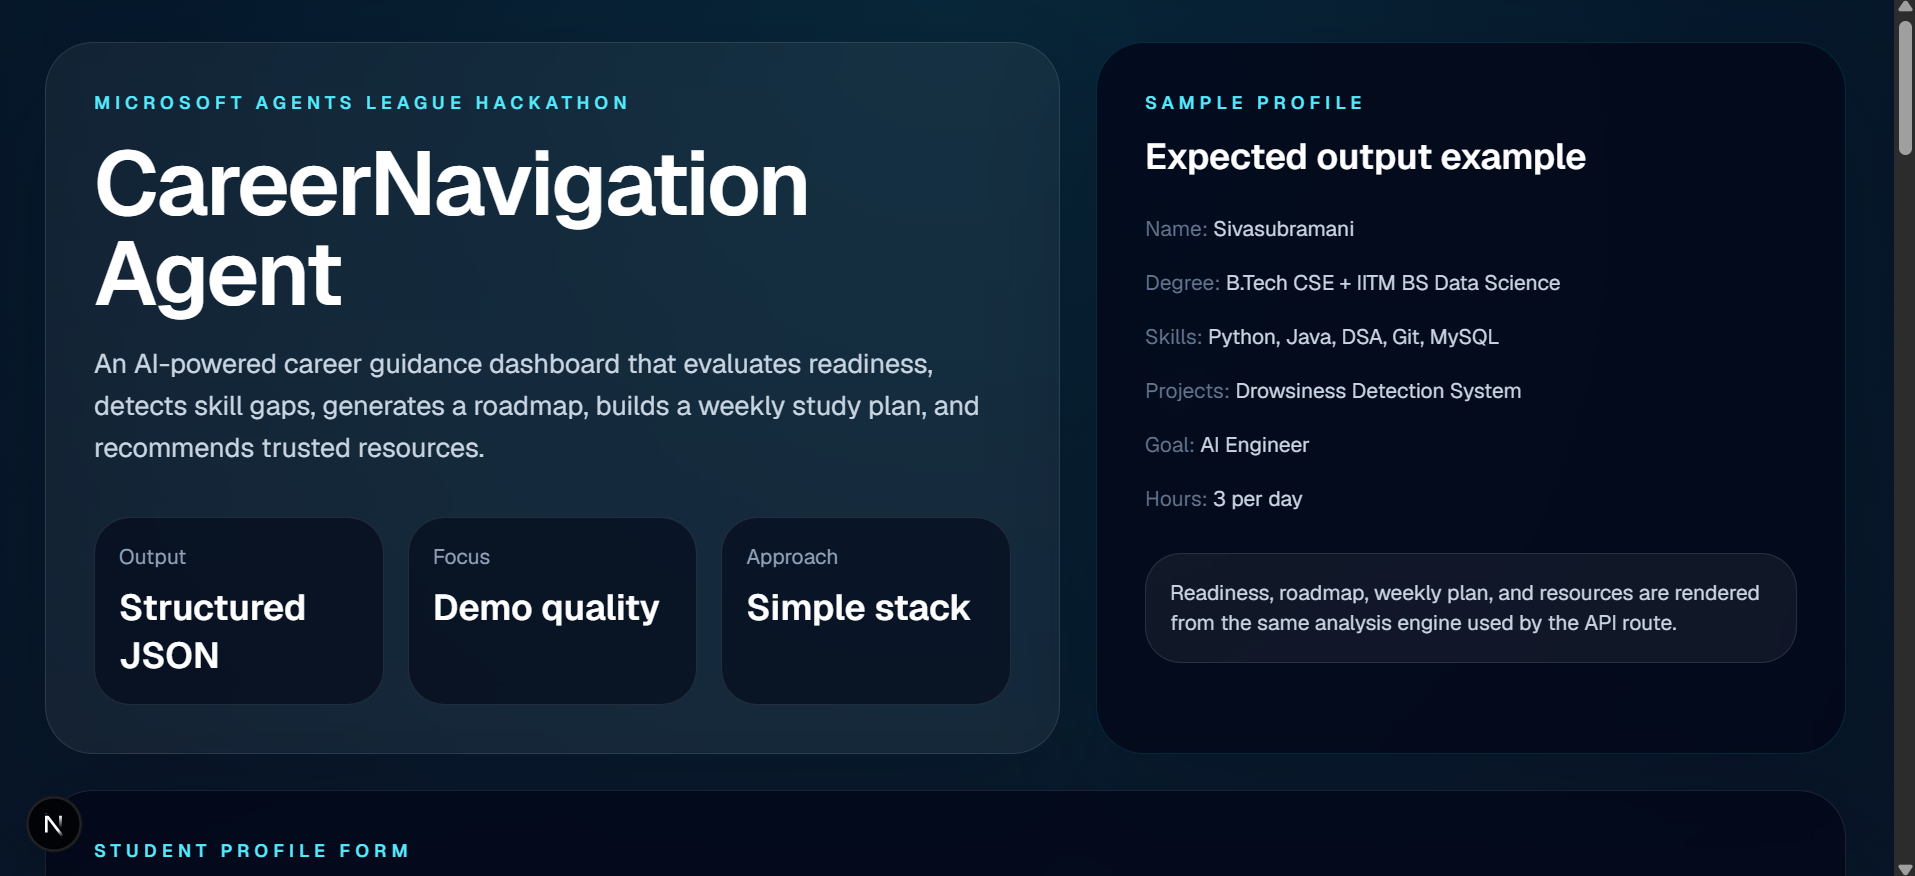
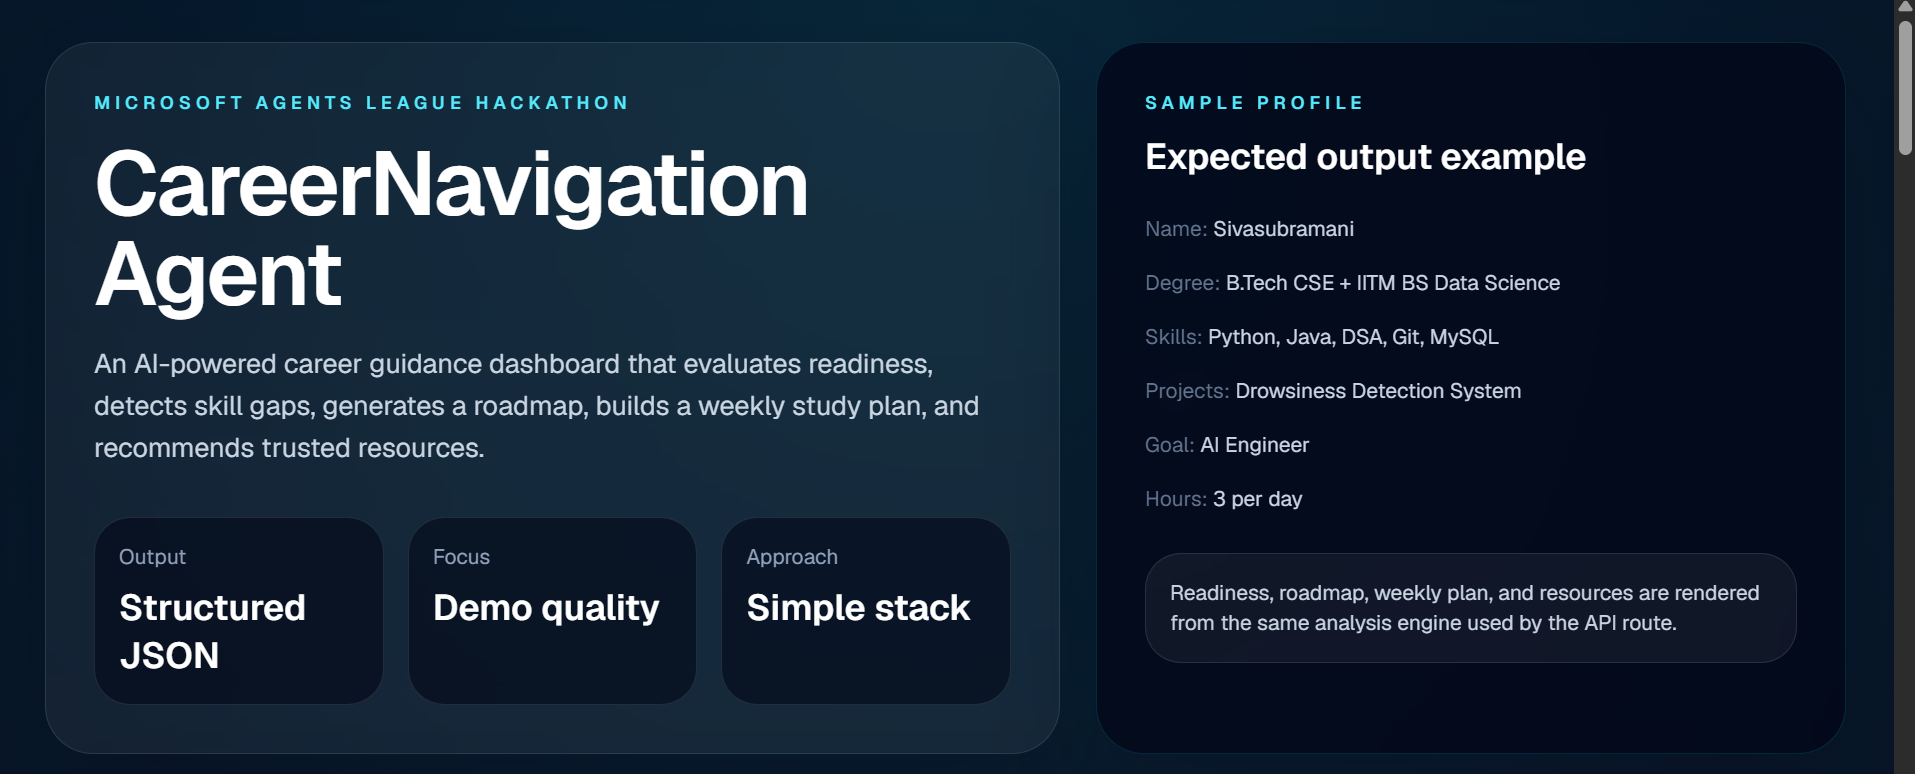
Added ai insights options

diff --git a/lib/aiProvider.js b/lib/aiProvider.js
@@ -1,0 +1,83 @@
+/**
+ * Simple wrapper around the Groq API (or any OpenAI‑compatible endpoint).
+ * The wrapper is deliberately lightweight – it only handles JSON payloads,
+ * adds the required Authorization header, and returns the parsed response.
+ *
+ * Environment variable `GROQ_API_KEY` must be defined in `.env.local`.
+ * The default model is `llama-3.1-70b-versatile` which is available on the
+ * free tier of Groq. If you prefer another provider (e.g., NVIDIA NIM or
+ * Google Gemini) you can change the `BASE_URL` and payload shape accordingly.
+ */
+
+const BASE_URL = "https://api.groq.com/openai/v1/chat/completions";
+
+/**
+ * Generic request to the LLM service.
+ * @param {string} systemPrompt – System level instruction for the model.
+ * @param {string} userPrompt   – User supplied content (profile, resume, …).
+ * @param {object} [options]    – Optional overrides (model, temperature).
+ * @returns {Promise<any>}      – Parsed JSON response from the model.
+ */
+export async function callLLM(systemPrompt, userPrompt, options = {}) {
+  const apiKey = process.env.GROQ_API_KEY;
+  if (!apiKey) {
+    throw new Error("GROQ_API_KEY is not set. Add it to .env.local");
+  }
+
+  const payload = {
+    model: options.model || "llama-3.1-70b-versatile",
+    temperature: options.temperature ?? 0.7,
+    messages: [
+      { role: "system", content: systemPrompt },
+      { role: "user", content: userPrompt }
+    ]
+  };
+
+  const response = await fetch(BASE_URL, {
+    method: "POST",
+    headers: {
+      "Content-Type": "application/json",
+      "Authorization": `Bearer ${apiKey}`
+    },
+    body: JSON.stringify(payload)
+  });
+
+  if (!response.ok) {
+    const err = await response.text();
+    throw new Error(`LLM request failed: ${response.status} ${err}`);
+  }
+
+  const data = await response.json();
+  // Groq follows the OpenAI schema – the assistant message is in `choices[0].message.content`
+  const content = data?.choices?.[0]?.message?.content;
+  try {
+    // Most prompts will ask the model to return JSON, so attempt to parse.
+    return JSON.parse(content);
+  } catch {
+    // If parsing fails, just return the raw string – callers can handle it.
+    return content;
+  }
+}
+
+/**
+ * Helper to generate mentor insights using the LLM.
+ * @param {object} analysis – The full analysis object produced by `analyzeCareerProfile`.
+ * @returns {Promise<object>} – { paragraphs: string[], highlight: object }
+ */
+export async function generateMentorInsights(analysis) {
+  const system = "You are a career‑guidance AI mentor. Provide concise, friendly paragraphs that summarize the user's strengths, gaps, and next steps. Return a JSON object with two keys: `paragraphs` (array of strings) and `highlight` (object containing `topCareer`, `readinessScore`, `topGaps`, `estimatedWeeks`).";
+  const user = JSON.stringify(analysis, null, 2);
+  return await callLLM(system, user);
+}
+
+/**
+ * Helper to analyse a resume text with the LLM.
+ * @param {string} resumeText – Raw resume text.
+ * @param {string} targetCareer – Desired career role.
+ * @returns {Promise<object>} – Same shape as `analyzeResumeText` but enriched.
+ */
+export async function generateResumeAnalysis(resumeText, targetCareer) {
+  const system = "You are a resume analyst for a career‑guidance platform. Extract detected skills, strengths, missing skills, and give concise recommendations. Return a JSON object matching the shape of the existing `analyzeResumeText` output.";
+  const user = `Target career: ${targetCareer}\n\nResume:\n${resumeText}`;
+  return await callLLM(system, user);
+}

diff --git a/lib/mentorInsights.js b/lib/mentorInsights.js
@@ -1,33 +1,46 @@
-export function buildMentorInsights(analysis = {}) {
-	const profile = analysis.profile || {};
-	const readiness = analysis.readiness || {};
-	const skillGap = analysis.skillGap || {};
-	const topMatch = analysis.careerMatches?.[0];
-	const targetCareer = topMatch?.career || profile.goal || "your target role";
-	const topGaps = skillGap.prioritySkills?.length
-		? skillGap.prioritySkills.slice(0, 3)
-		: skillGap.missingSkills?.slice(0, 3) || [];
-	const gapText = topGaps.length > 0 ? topGaps.join(", ") : "foundational role skills";
-	const weeks = Math.max(4, Math.ceil((skillGap.missingSkills?.length || 3) * 2));
-	const strengthText =
-		readiness.strengths?.length > 0
-			? readiness.strengths.slice(0, 3).join(", ")
-			: "core academic foundations";
+import { generateMentorInsights } from "./aiProvider";
 
-	const paragraphs = [
-		`Based on your profile, ${targetCareer} is your strongest career match${topMatch ? ` at ${topMatch.score}% alignment` : ""}.`,
-		`You already have strong foundations in ${strengthText}. Your current readiness score is ${readiness.score ?? 0}% (${readiness.label || "evaluating"}).`,
-		`Your largest gaps are ${gapText}. Focus on these skills during the next ${weeks} weeks to improve your readiness score and move closer to interview readiness.`,
-		readiness.summary || "Keep building projects and documenting your progress each week."
-	];
+export async function buildMentorInsights(analysis = {}) {
+    // Attempt AI generation first; fallback to static logic on error.
+    try {
+        const aiResult = await generateMentorInsights(analysis);
+        if (aiResult && aiResult.paragraphs && aiResult.highlight) {
+            return aiResult;
+        }
+    } catch (e) {
+        console.warn("AI mentor insights failed, using static fallback:", e);
+    }
 
-	return {
-		paragraphs,
-		highlight: {
-			topCareer: targetCareer,
-			readinessScore: readiness.score ?? 0,
-			topGaps,
-			estimatedWeeks: weeks
-		}
-	};
+    // ---- Static fallback (original logic) ----
+    const profile = analysis.profile || {};
+    const readiness = analysis.readiness || {};
+    const skillGap = analysis.skillGap || {};
+    const topMatch = analysis.careerMatches?.[0];
+    const targetCareer = topMatch?.career || profile.goal || "your target role";
+    const topGaps = skillGap.prioritySkills?.length
+        ? skillGap.prioritySkills.slice(0, 3)
+        : skillGap.missingSkills?.slice(0, 3) || [];
+    const gapText = topGaps.length > 0 ? topGaps.join(", ") : "foundational role skills";
+    const weeks = Math.max(4, Math.ceil((skillGap.missingSkills?.length || 3) * 2));
+    const strengthText =
+        readiness.strengths?.length > 0
+            ? readiness.strengths.slice(0, 3).join(", ")
+            : "core academic foundations";
+
+    const paragraphs = [
+        `Based on your profile, ${targetCareer} is your strongest career match${topMatch ? ` at ${topMatch.score}% alignment` : ""}.`,
+        `You already have strong foundations in ${strengthText}. Your current readiness score is ${readiness.score ?? 0}% (${readiness.label || "evaluating"}).`,
+        `Your largest gaps are ${gapText}. Focus on these skills during the next ${weeks} weeks to improve your readiness score and move closer to interview readiness.`,
+        readiness.summary || "Keep building projects and documenting your progress each week."
+    ];
+
+    return {
+        paragraphs,
+        highlight: {
+            topCareer: targetCareer,
+            readinessScore: readiness.score ?? 0,
+            topGaps,
+            estimatedWeeks: weeks
+        }
+    };
 }

diff --git a/lib/analyzer.js b/lib/analyzer.js
@@ -1,5 +1,6 @@
 import { careerPaths } from "./careerPaths";
 import { prompts } from "./prompts";
+import { generateResumeAnalysis } from "./aiProvider";
 
 function normalizeSkill(skill = "") {
 	return skill
@@ -331,7 +332,7 @@ function analyzeResumeText(resumeText = "", targetCareer = "AI Engineer") {
 	};
 }
 
-export function analyzeCareerProfile(profile = {}) {
+export async function analyzeCareerProfile(profile = {}) {
 	const normalizedProfile = {
 		name: String(profile.name || "Student").trim(),
 		degree: String(profile.degree || "").trim(),
@@ -341,25 +342,29 @@ export function analyzeCareerProfile(profile = {}) {
 		hoursPerDay: Number(profile.hoursPerDay) || 1
 	};
 
-	// If resume text/data is provided, integrate detected resume skills/projects
-	if (profile.resumeText) {
-		try {
-			const resumeAnalysis = analyzeResumeText(profile.resumeText, normalizedProfile.goal);
-			// merge detected skills and projects from resume into the profile inputs
-			if (Array.isArray(resumeAnalysis.detectedSkills) && resumeAnalysis.detectedSkills.length) {
-				const merged = [...new Set([...normalizedProfile.skills, ...resumeAnalysis.detectedSkills])];
-				normalizedProfile.skills = merged;
-			}
-			// basic project extraction if not already provided
-			if ((!normalizedProfile.projects || normalizedProfile.projects.length === 0) && Array.isArray(resumeAnalysis.projects) && resumeAnalysis.projects.length) {
-				normalizedProfile.projects = resumeAnalysis.projects;
-			}
-			// attach resumeAnalysis for consumers to display
-			normalizedProfile._resumeAnalysis = resumeAnalysis;
-		} catch (e) {
-			// ignore resume parsing errors and continue analysis
-		}
-	}
+  // If resume text/data is provided, integrate detected resume skills/projects using AI.
+  if (profile.resumeText) {
+    try {
+      const resumeAnalysis = await generateResumeAnalysis(profile.resumeText, normalizedProfile.goal);
+      if (resumeAnalysis && typeof resumeAnalysis === "object") {
+        if (Array.isArray(resumeAnalysis.detectedSkills) && resumeAnalysis.detectedSkills.length) {
+          const merged = [...new Set([...normalizedProfile.skills, ...resumeAnalysis.detectedSkills])];
+          normalizedProfile.skills = merged;
+        }
+        if (Array.isArray(resumeAnalysis.projects) && resumeAnalysis.projects.length) {
+          const mergedProjects = [...new Set([...(normalizedProfile.projects || []), ...resumeAnalysis.projects])];
+          normalizedProfile.projects = mergedProjects;
+        }
+        normalizedProfile._resumeAnalysis = resumeAnalysis;
+      }
+    } catch (e) {
+      // Fallback to original static analysis if AI call fails.
+      try {
+        const fallback = analyzeResumeText(profile.resumeText, normalizedProfile.goal);
+        normalizedProfile._resumeAnalysis = fallback;
+      } catch (_) {}
+    }
+  }
 
 	const requiredSkills = getRequiredSkills(normalizedProfile.goal);
 	const readiness = calculateReadiness(normalizedProfile.skills, requiredSkills, normalizedProfile.hoursPerDay, normalizedProfile.projects);

diff --git a/components/AIMentorInsights.jsx b/components/AIMentorInsights.jsx
@@ -7,6 +7,10 @@ export default function AIMentorInsights({ analysis }) {
 
 	const mentor = buildMentorInsights(analysis);
 
+	// Ensure we have a safe fallback if the mentor insights failed or are missing
+	const paragraphs = mentor?.paragraphs ?? [];
+	const highlight = mentor?.highlight ?? {};
+
 	return (
 		<SectionCard
 			eyebrow="AI Mentor Insights"
@@ -19,17 +23,21 @@ export default function AIMentorInsights({ analysis }) {
 						AI
 					</div>
 					<div className="space-y-4">
-						{mentor.paragraphs.map((paragraph, index) => (
-							<p key={index} className="text-sm leading-7 text-slate-200 animate-fade-in">
-								{paragraph}
-							</p>
-						))}
+						{paragraphs.length > 0 ? (
+							paragraphs.map((paragraph, index) => (
+								<p key={index} className="text-sm leading-7 text-slate-200 animate-fade-in">
+									{paragraph}
+								</p>
+							))
+						) : (
+							<p className="text-sm text-slate-400">Loading mentor insights…</p>
+						)}
 					</div>
 				</div>
 				<div className="mt-6 flex flex-wrap gap-2">
-					<Badge tone="cyan">Top match: {mentor.highlight.topCareer}</Badge>
-					<Badge tone="emerald">Readiness: {mentor.highlight.readinessScore}%</Badge>
-					<Badge tone="amber">Focus: {mentor.highlight.estimatedWeeks} weeks</Badge>
+					{highlight.topCareer && <Badge tone="cyan">Top match: {highlight.topCareer}</Badge>}
+					{highlight.readinessScore !== undefined && <Badge tone="emerald">Readiness: {highlight.readinessScore}%</Badge>}
+					{highlight.estimatedWeeks && <Badge tone="amber">Focus: {highlight.estimatedWeeks} weeks</Badge>}
 				</div>
 			</div>
 		</SectionCard>

diff --git a/app/layout.tsx b/app/layout.tsx
@@ -30,6 +30,7 @@ export default function RootLayout({
 		<html
 			lang="en"
 			className={`${geistSans.variable} ${geistMono.variable} h-full antialiased`}
+			suppressHydrationWarning={true}
 		>
 			<body className="flex min-h-full flex-col bg-slate-950 text-slate-100">
 				<AnalysisProvider>